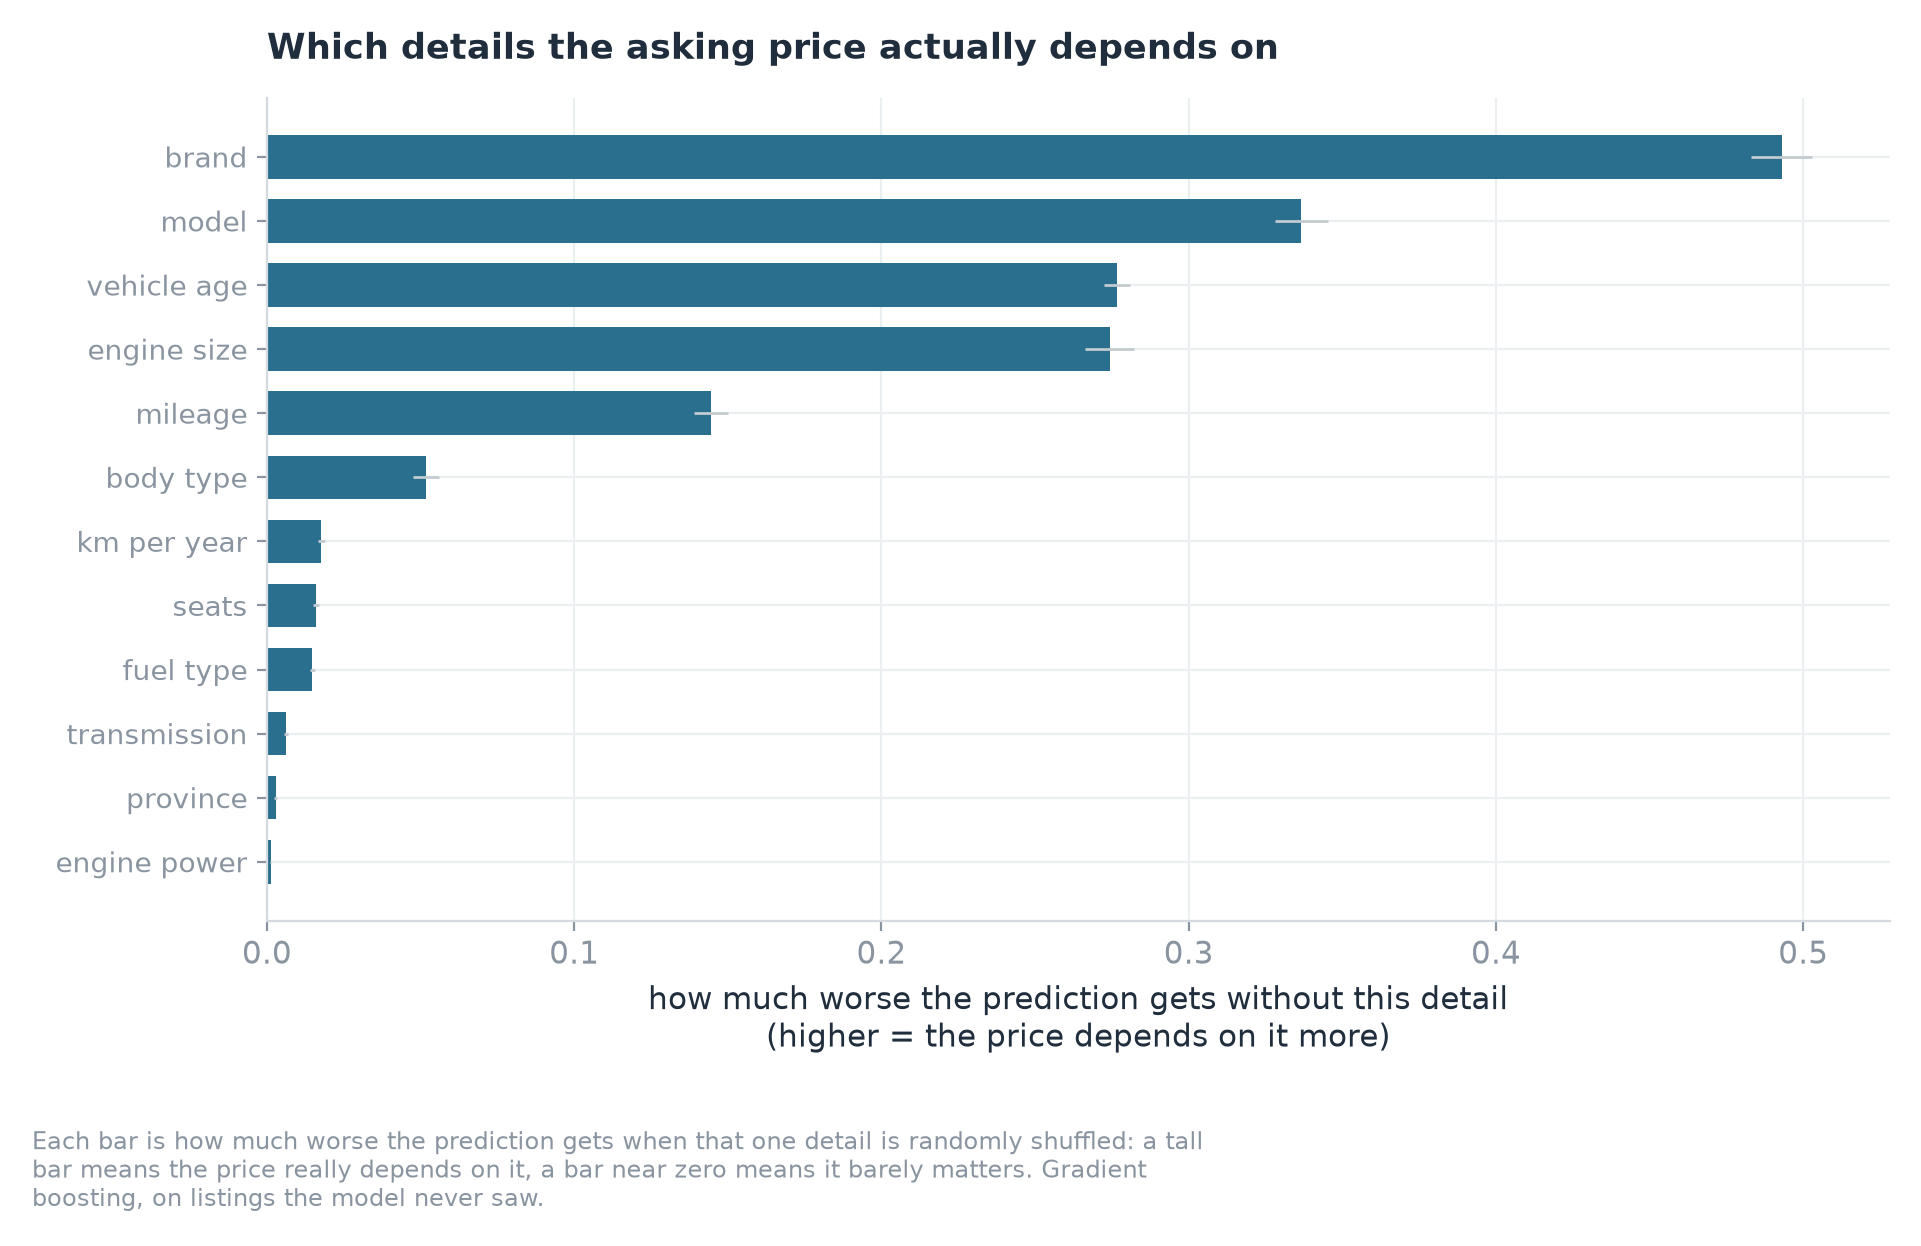
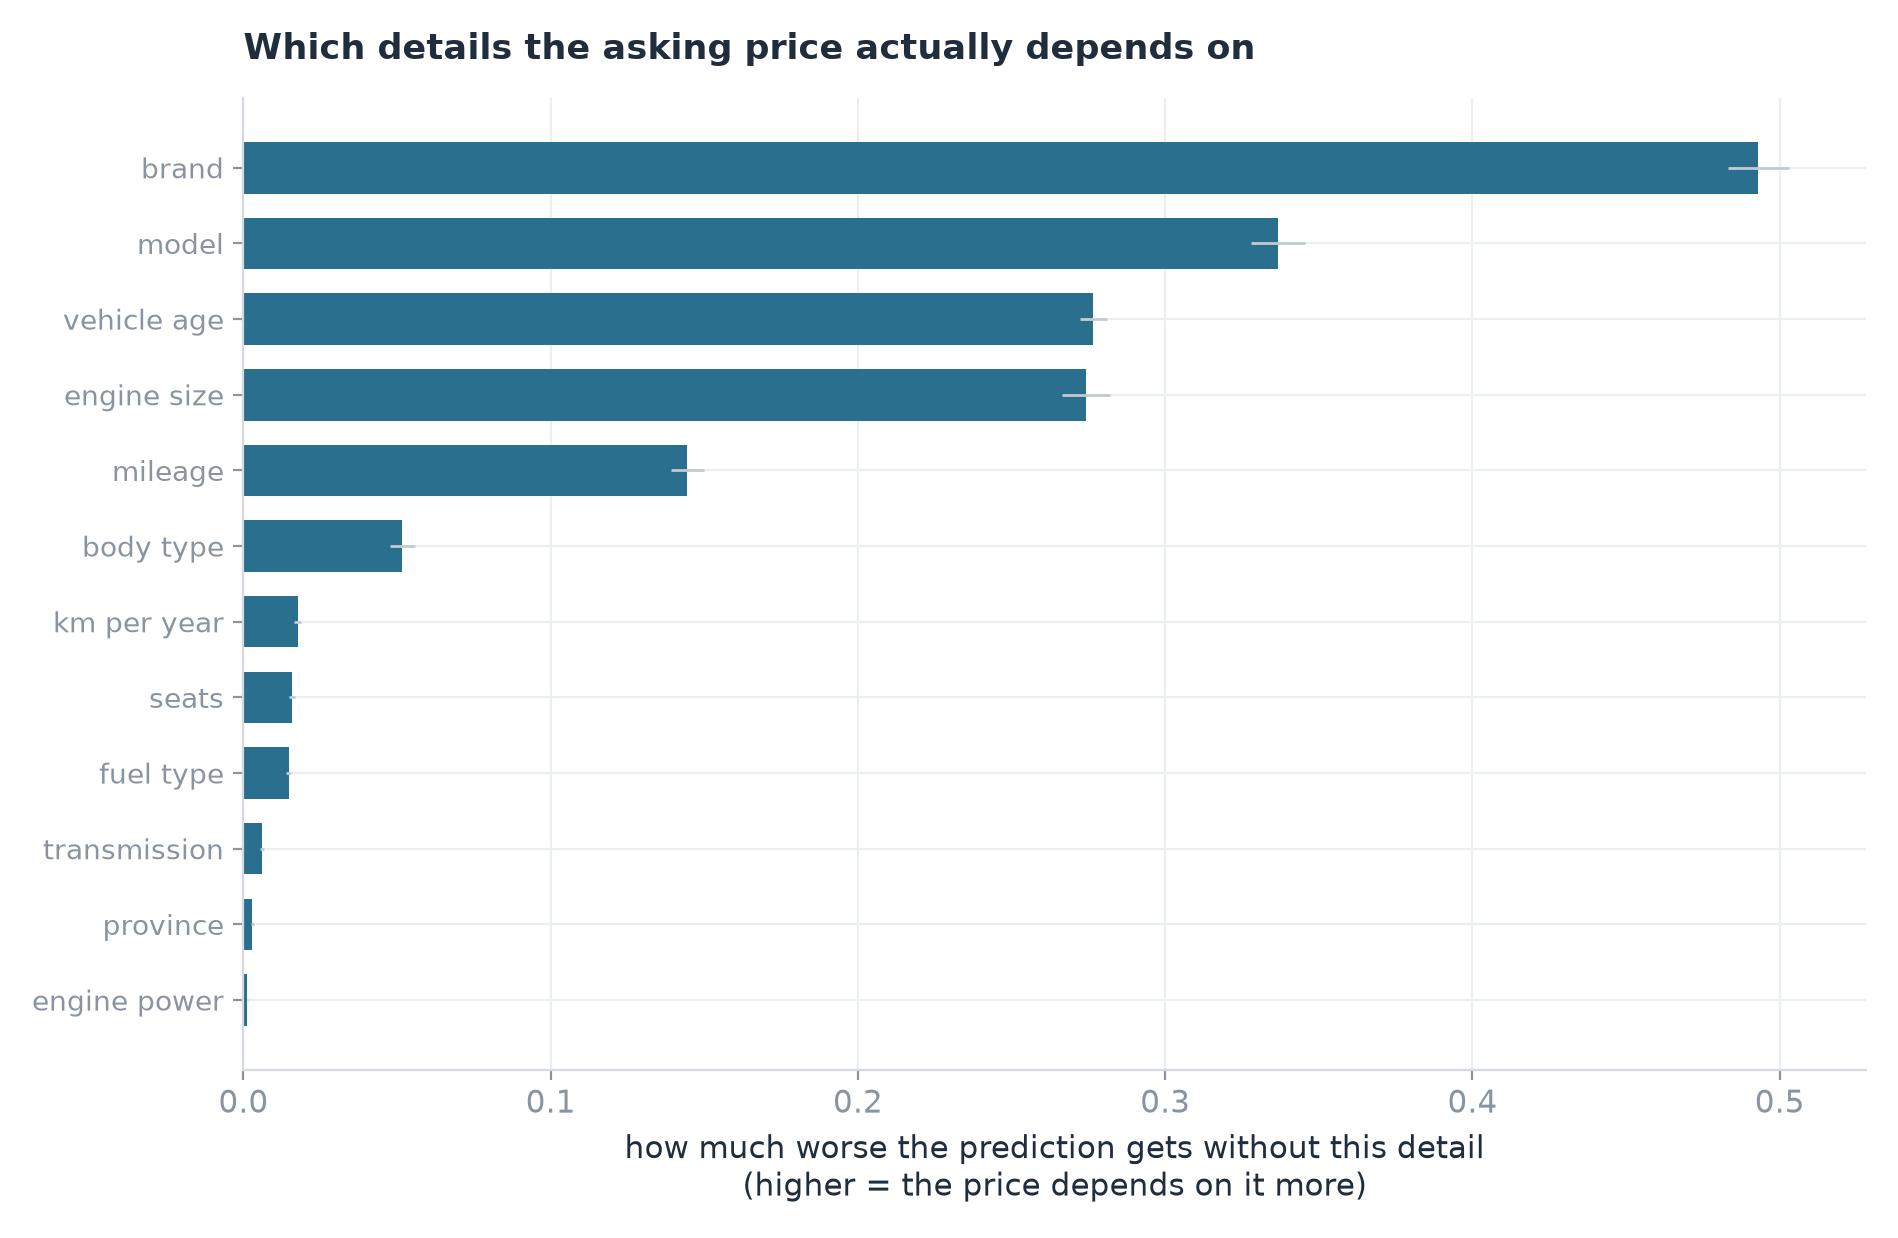
Keep chart explanations outside the figures and correct the regression label
Drop every grey note inside the white chart area; the captions below now carry the method detail, matching project 1. Rename the chip from 'Multiple regression' to 'Regression', since the model that ships is gradient boosting, and state in the validation block which four approaches were compared and that the classical multiple regression (ridge) lost to the lookup baseline.

diff --git a/projects/02-used-car-market/index.html b/projects/02-used-car-market/index.html
@@ -60,7 +60,7 @@
               <li class="chip">pandas</li>
               <li class="chip">scikit-learn</li>
               <li class="chip">matplotlib</li>
-              <li class="chip">Multiple regression</li>
+              <li class="chip">Regression</li>
             </ul>
 
             <div class="case-meta">
@@ -166,10 +166,10 @@
             <figcaption>
               Each panel is one model &mdash; the eight with the most listings. A
               one-year-old unit is set to 100 and every older unit is drawn relative to it,
-              so a point at 40 means that age sells for 40% of the one-year-old price.
-              <strong>Read the slope, not the last point:</strong> at twelve years old the
-              car is a different generation, so the right-hand end of each curve mixes
-              depreciation with a model change.
+              so a point at 40 means that age sells for 40% of the one-year-old price. The
+              dotted line marks half that price. <strong>Read the slope, not the last
+              point:</strong> at twelve years old the car is a different generation, so the
+              right-hand end of each curve mixes depreciation with a model change.
             </figcaption>
           </figure>
 
@@ -183,7 +183,9 @@
               pooled, and an automatic looks 125% dearer &mdash; but that is mostly
               comparing expensive family cars with cheap vans. On the right, the automatic
               and manual versions of the <em>same model and year</em> are compared directly:
-              the typical gap is 5.8%, likely somewhere between 3.1% and 10.6%.
+              the typical gap is 5.8%, likely somewhere between 3.1% and 10.6%. Only one
+              such pair is older than five years, so the age pattern on the right is a hint,
+              not a conclusion.
             </figcaption>
           </figure>
 
@@ -197,9 +199,11 @@
               fifths. The top group asks 74% less than the bottom &mdash; but those are
               mostly older, cheaper models. <strong>Right:</strong> the fair comparison.
               Within each model and year the cars are split into three equal groups by
-              mileage, and the highest group is set against the lowest. Each dot is one
-              model-year; the orange band is where the true figure most likely sits. The
-              honest answer is about <strong>4% cheaper</strong>, not 74%.
+              mileage, and the highest group is set against the lowest. 504 model-years
+              qualified, with a median odometer of 22,500 km against 62,500 km. Each dot is
+              one model-year; the orange band is where the true figure most likely sits,
+              between 3.2% and 4.6% cheaper. The honest answer is about
+              <strong>4% cheaper</strong>, not 74%.
             </figcaption>
           </figure>
 
@@ -210,9 +214,10 @@
               loading="lazy" decoding="async" />
             <figcaption>
               <strong>What the model leans on.</strong> Each bar shows how much worse the
-              prediction gets when that one detail is scrambled, so a tall bar means the
-              asking price really depends on it. Brand and model dominate; transmission,
-              province and every claim written in the listing text are almost flat.
+              prediction gets when that one detail is randomly shuffled. A tall bar means
+              the asking price really depends on it; a bar near zero means it barely matters.
+              Brand and model dominate; transmission, province and every claim written in the
+              listing text are almost flat.
             </figcaption>
           </figure>
 
@@ -222,12 +227,15 @@
               alt="Left: province price gaps all within 0.7 percentage points. Right: the extra price each brand's badge adds beyond its specifications, from Land Rover plus 27.5 percent to Wuling minus 20.6 percent."
               loading="lazy" decoding="async" />
             <figcaption>
-              <strong>Left:</strong> the same car and year, priced in four provinces &mdash;
-              all four sit within 0.7 percentage points, so where you buy barely changes the
-              price. <strong>Right:</strong> how much more each brand asks than its
-              cars&rsquo; specifications would suggest, grouped by brand. Orange means the
-              badge adds value; blue means the cars sell below what their specifications
-              imply. The next chart does the same thing model by model.
+              <strong>Left:</strong> the same car and year, priced in the four provinces
+              with at least 150 listings each &mdash; all four sit within 0.7 percentage
+              points, so where you buy barely changes the price. Note that the left axis
+              spans only ±2%: the bars look short because the differences really are that
+              small. <strong>Right:</strong> how much more each brand asks than its
+              cars&rsquo; specifications would suggest, for brands with at least 100
+              listings. Orange means the badge adds value; blue means the cars sell below
+              what their specifications imply. The next chart does the same thing model by
+              model.
             </figcaption>
           </figure>
 
@@ -252,9 +260,9 @@
               loading="lazy" decoding="async" />
             <figcaption>
               <strong>What the marketplace contains.</strong> SUVs and MPVs account for
-              roughly seven in ten listings and Japanese brands for 57%. The thin 2020 bar is
-              a production effect: few cars were built and sold that year, so few are on sale
-              now.
+              roughly seven in ten listings and Japanese brands for 57%. The orange bar in
+              the left panel is 2020: a production effect, because few cars were built and
+              sold that year, so few are on sale now.
             </figcaption>
           </figure>
 
@@ -262,14 +270,19 @@
             <div class="case-method-body">
               <p class="case-method-label">Methodology validation</p>
               <p>
-                The model used on this page is <strong>gradient boosting</strong>, the
-                strongest of four approaches tested. Before trusting it, it was given a lazy
-                rival: just look up the average price of the same model and year. That rival
-                already lands within <strong>5.9%</strong> of the real asking price, so any
-                model has to beat it to be worth anything. Gradient boosting does better
-                overall (<strong>34.8% less error</strong>) but only slightly better on a
-                typical car (<strong>5.6%</strong>) &mdash; most of its advantage sits in
-                rare and expensive models.
+                The model used on this page is <strong>gradient boosting</strong>. Four
+                approaches were compared: a classic multiple regression (ridge), a random
+                forest, gradient boosting, and a lazy lookup that simply returns the average
+                price of the same model and year. The multiple regression did worse than the
+                lookup, so it is not what drives these numbers.
+              </p>
+              <p>
+                That lookup is a hard act to follow: it already lands within
+                <strong>5.9%</strong> of the real asking price, so any model has to beat it
+                to be worth anything. Gradient boosting does better overall
+                (<strong>34.8% less error</strong>) but only slightly better on a typical car
+                (<strong>5.6%</strong>) &mdash; most of its advantage sits in rare and
+                expensive models.
               </p>
               <p>
                 Two checks keep the result honest. Take the brand and model away and the

diff --git a/projects/02-used-car-market/eda.py b/projects/02-used-car-market/eda.py
@@ -23,7 +23,6 @@ Usage:
 from __future__ import annotations
 
 import sys
-import textwrap
 from pathlib import Path
 
 import matplotlib
@@ -90,17 +89,6 @@ def save(fig, name: str) -> None:
     out(f"   saved {path}")
 
 
-def footnote(fig, text: str) -> None:
-    """A short, wrapped caption inside the figure.
-
-    Wrapping matters: a long single line makes bbox_inches="tight" widen the
-    canvas far beyond the axes, which shrinks the chart when it is placed on a
-    page. No line should be longer than the plot is wide.
-    """
-    fig.text(0.005, 0.02, textwrap.fill(" ".join(text.split()), 96),
-             fontsize=8.5, color=MUTED, va="bottom", ha="left")
-
-
 # ---------------------------------------------------------------------------
 # 1. annual retention by brand
 # ---------------------------------------------------------------------------
@@ -165,11 +153,7 @@ def chart_brand_retention(series: pd.DataFrame) -> pd.DataFrame:
     ax.set_xticks([-18, -15, -12, -9, -6, -3, 0])
     ax.set_xlabel("how much of its value the brand loses each year (%)")
     ax.set_title("Which brands hold their value best?", loc="left", pad=16)
-    fig.tight_layout(rect=[0, 0.11, 1, 1])
-    footnote(fig, "Each bar is the typical (median) yearly loss across that brand's "
-                  "models; the thin lines show how much the models differ. Median, not "
-                  "average, so one very expensive listing cannot distort the bar. "
-                  "n = how many models were available.")
+    fig.tight_layout()
     save(fig, "01_brand_retention.png")
     return summary
 
@@ -205,21 +189,14 @@ def chart_retention_curves(df: pd.DataFrame, series: pd.DataFrame) -> None:
     for ax in axes[-1]:
         ax.set_xlabel("age (years)")
     for ax in axes[:, 0]:
-        ax.set_ylabel("price index")
+        ax.set_ylabel("price index (100 = a one-year-old unit)")
     axes[0, 0].set_ylim(0, 145)
     axes[0, 0].set_xticks(range(1, 16, 2))
 
     fig.suptitle("How fast each model loses value",
                  x=0.005, y=0.985, ha="left", va="top",
                  fontsize=13.5, fontweight="bold")
-    fig.text(0.005, 0.940,
-             "100 = what a one-year-old unit of that model asks today",
-             fontsize=9.5, color=MUTED, ha="left", va="top")
-    fig.text(0.005, 0.908,
-             "a point at 40 means that age asks 40% of it  ·  dotted line = half"
-             "  ·  the eight most-listed models",
-             fontsize=9, color=MUTED, ha="left", va="top")
-    fig.tight_layout(rect=[0, 0, 1, 0.87])
+    fig.tight_layout(rect=[0, 0, 1, 0.93])
     save(fig, "02_retention_curves.png")
 
 
@@ -304,11 +281,7 @@ def chart_transmission(df: pd.DataFrame, cells: pd.DataFrame) -> None:
     fig.suptitle("Automatic cars only look expensive until you compare like with like",
                  x=0.005, y=0.985, ha="left", va="top",
                  fontsize=14, fontweight="bold")
-    fig.tight_layout(rect=[0, 0.11, 1, 0.90])
-    footnote(fig, "Left: every listing pooled, so the figure also reflects which cars "
-                  "tend to be automatic. Right: automatic versus manual versions of the "
-                  f"same model and year ({len(cells)} such pairs); only one pair is older "
-                  "than five years, so the age pattern is a hint, not a conclusion.")
+    fig.tight_layout(rect=[0, 0, 1, 0.93])
     save(fig, "03_transmission_premium.png")
 
 
@@ -381,18 +354,11 @@ def chart_mileage(df: pd.DataFrame) -> dict:
     ax2.set_title("B. Comparing the same model and year", loc="left", pad=12)
     ax2.text(med + 1.2, 0.60, f"typical {abs(med):.1f}% cheaper", ha="left", va="center",
              fontsize=11, color=ACCENT, fontweight="bold")
-    ax2.text(0.02, 0.04, f"likely between {abs(ci_hi):.1f}% and {abs(ci_lo):.1f}% cheaper",
-             transform=ax2.transAxes, fontsize=8.5, color=MUTED)
 
     fig.suptitle("High mileage looks expensive — until you compare the same model",
                  x=0.005, y=0.985, ha="left", va="top",
                  fontsize=14, fontweight="bold")
-    fig.tight_layout(rect=[0, 0.11, 1, 0.90])
-    footnote(fig, f"Left: every listing that reports a mileage ({len(all_km):,} cars). "
-                  f"Right: {len(gaps)} model-years with at least six cars, comparing the "
-                  "highest-mileage third with the lowest of the very same model and year "
-                  f"(about {gaps['km_low'].median():,.0f} km against "
-                  f"{gaps['km_high'].median():,.0f} km). Each dot is one model-year.")
+    fig.tight_layout(rect=[0, 0, 1, 0.93])
     save(fig, "04_mileage_illusion.png")
     return {"gaps": gaps, "raw": raw}
 
@@ -414,8 +380,6 @@ def chart_structure(df: pd.DataFrame) -> None:
     axes[0].set_ylabel("listings")
     axes[0].set_xticks(list(range(2008, 2027, 2)))
     axes[0].tick_params(axis="x", labelsize=9)
-    axes[0].text(0.02, 0.93, "orange = 2020, a thin production cohort",
-                 transform=axes[0].transAxes, fontsize=8.5, color=ACCENT)
 
     body = df["body_type"].value_counts().head(6)
     y = np.arange(len(body))

diff --git a/projects/02-used-car-market/model.py b/projects/02-used-car-market/model.py
@@ -34,7 +34,6 @@ from __future__ import annotations
 
 import os
 import sys
-import textwrap
 import warnings
 from pathlib import Path
 
@@ -101,12 +100,6 @@ MIN_MODEL_N = 20   # rarer models collapse into "other": HistGradientBoosting
                    # accepts at most 255 categories per feature
 
 _lines: list[str] = []
-
-
-def note(fig, text: str, width: int = 104) -> None:
-    """Wrapped caption inside the figure; long single lines would widen the canvas."""
-    fig.text(0.005, 0.02, textwrap.fill(" ".join(text.split()), width),
-             fontsize=8.5, color=MUTED, va="bottom", ha="left")
 
 
 def out(msg: str = "") -> None:
@@ -373,9 +366,6 @@ def main() -> None:
     axa.set_xlim(-2, 2)
     axa.set_xlabel("price difference for the same car sold elsewhere (%)")
     axa.set_title("A. Where the car is sold", loc="left", pad=12)
-    axa.text(0.03, 0.93,
-             f"all four provinces sit within {abs(gap_span):.1f} points\n(axis spans ±2%)",
-             transform=axa.transAxes, ha="left", va="top", fontsize=8.5, color=MUTED)
 
     axb.barh(np.arange(len(brand_gap)), brand_gap["median"],
              color=[ACCENT if v > 0 else COOL for v in brand_gap["median"]],
@@ -390,12 +380,7 @@ def main() -> None:
     fig.suptitle("Where a car is sold hardly matters. Which car it is, matters a lot.",
                  x=0.005, y=0.985, ha="left", va="top",
                  fontsize=13.5, fontweight="bold")
-    fig.tight_layout(rect=[0, 0.13, 1, 0.90])
-    note(fig, "Left: the same car and year, priced in different provinces (provinces with "
-              "at least 150 listings). Right: how far each brand's prices sit above or "
-              "below what its cars' specifications suggest (brands with at least 100 "
-              "listings). Orange = the badge adds value; blue = the cars sell below their "
-              "paper specification.", width=100)
+    fig.tight_layout(rect=[0, 0, 1, 0.93])
     fig.savefig(IMAGES / "07_location_and_brand.png", bbox_inches="tight",
                 pad_inches=0.16, facecolor="white")
     plt.close(fig)
@@ -413,11 +398,7 @@ def main() -> None:
     ax.set_xlabel("price compared with what the car's specifications suggest (%)")
     ax.set_title("Which models look cheap — or expensive — for what they offer",
                  loc="left", pad=14)
-    fig.tight_layout(rect=[0, 0.11, 1, 1])
-    note(fig, "Blue: the car sells for less than its specifications suggest, either "
-              "because it is underrated or because it carries a drawback the paperwork "
-              "cannot show. Orange: it sells for more. Only models with at least 25 "
-              "listings are shown.", width=98)
+    fig.tight_layout()
     fig.savefig(IMAGES / "08_model_bargains.png", bbox_inches="tight",
                 pad_inches=0.16, facecolor="white")
     plt.close(fig)
@@ -449,11 +430,7 @@ def main() -> None:
                   "(higher = the price depends on it more)")
     ax.set_title("Which details the asking price actually depends on",
                  loc="left", pad=14)
-    fig.tight_layout(rect=[0, 0.12, 1, 1])
-    note(fig, "Each bar is how much worse the prediction gets when that one detail is "
-              "randomly shuffled: a tall bar means the price really depends on it, a bar "
-              "near zero means it barely matters. Gradient boosting, on listings the "
-              "model never saw.", width=98)
+    fig.tight_layout()
     IMAGES.mkdir(exist_ok=True)
     fig.savefig(IMAGES / "06_feature_importance.png", bbox_inches="tight",
                 pad_inches=0.16, facecolor="white")

diff --git a/projects/02-used-car-market/README.md b/projects/02-used-car-market/README.md
@@ -133,7 +133,7 @@ questions are being asked:
 | Scheme | Question | RMSE(log) | R² | MdAPE |
 | --- | --- | --- | --- | --- |
 | Baseline: median of the same model-year | is ML worth it at all? | 0.2325 | 0.935 | **5.9%** |
-| Ridge | — | 0.2605 | 0.918 | 11.3% |
+| Ridge (classic multiple regression) | — | 0.2605 | 0.918 | 11.3% |
 | Random forest | — | 0.1890 | 0.957 | 6.6% |
 | **Gradient boosting** (used in the write-up) | deployment case | **0.1515** | **0.972** | **5.6%** |
 | Gradient boosting, unseen model series | does it generalise? | 0.3827 | 0.824 | 22.0% |
